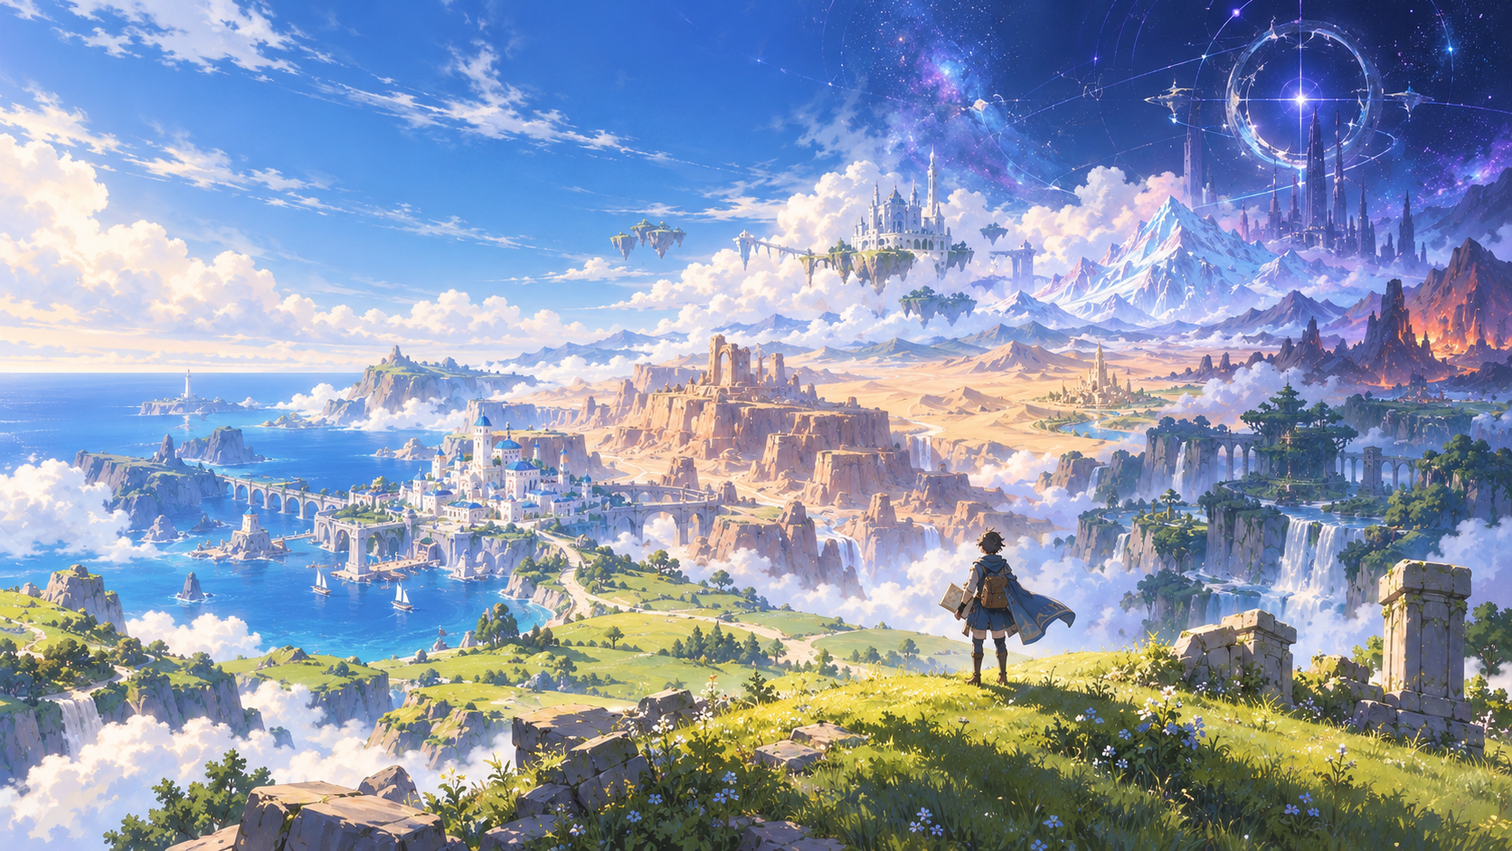
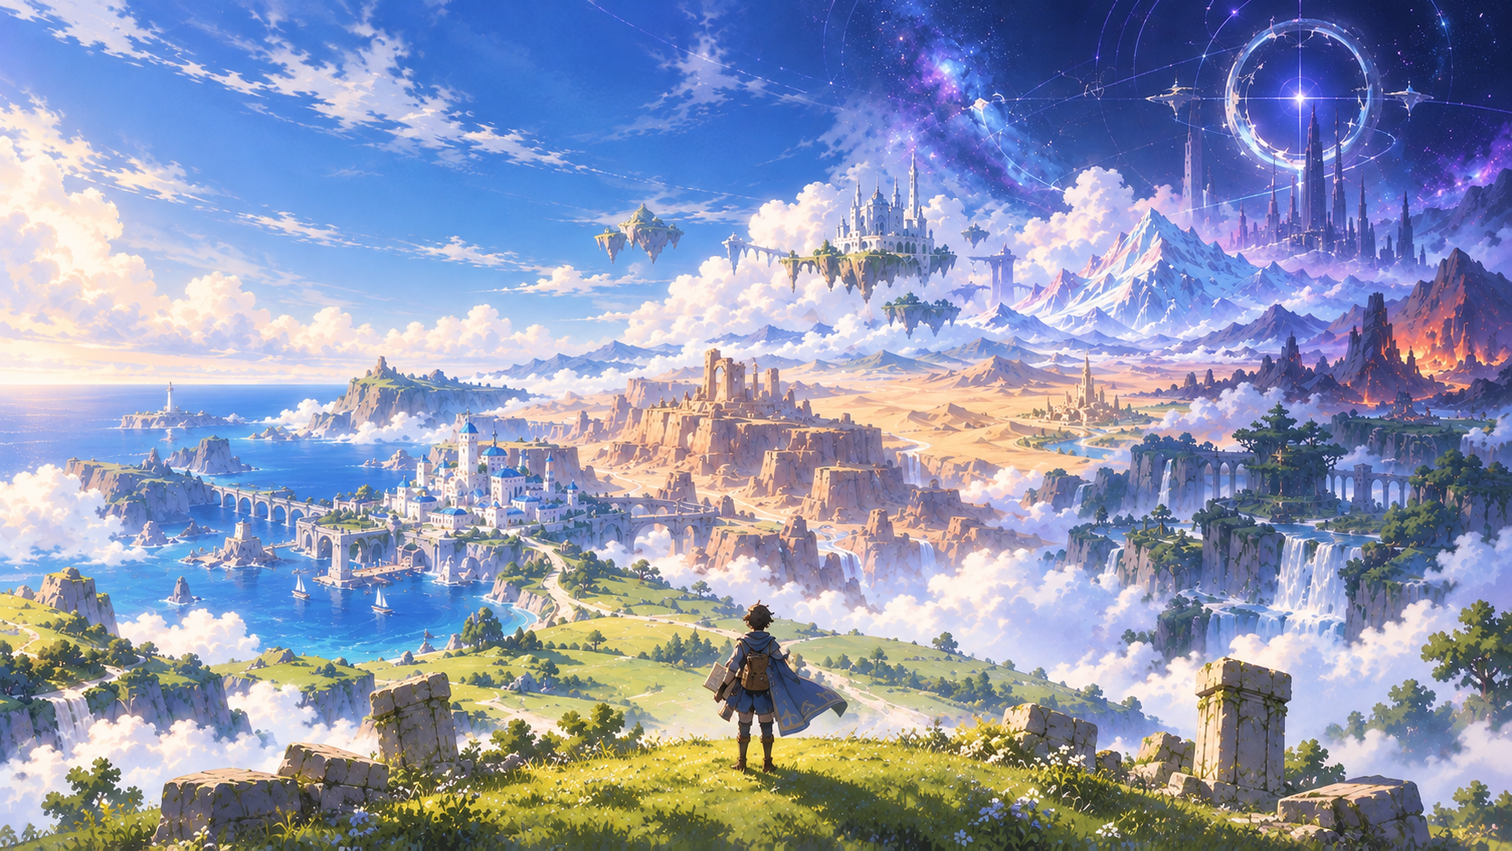
fix: polish lobby and stabilize battle score presentation

diff --git a/src/ui/combat.js b/src/ui/combat.js
@@ -44,7 +44,7 @@ export function renderCombat(root,state,{command,openOverlay,selected=new Set(),
       (guide.detail||guide.boss)&&button('설명',()=>modal(guide.title,[...(guide.detail??'').split('\n'),...(guide.boss??[])].filter(Boolean).map(text=>el('p',{text}))),'quiet learning-detail'),
       el('small',{class:'learning-bonus',text:guide.bonus})),
     el('p',{text:guide.description}));
-  const scoreWrap=el('div',{class:'score-stage'},score,el('div',{class:'score-copy'},issue,learningGuide,el('div',{class:'score-log',dataset:{presentation:'log'}})));
+  const scoreWrap=el('div',{class:'score-stage'},score,el('div',{class:'score-copy'},issue,learningGuide));
   const sentence=el('div',{class:'sentence-cards combat-sentence',dataset:{cardZone:'sentence',presentation:'sentence'}});
   const hand=el('div',{class:'hand-cards',dataset:{cardZone:'hand'}});
   function doCommand(cmd){if(!locked)return command(tutorialCommand(state,cmd));}
@@ -64,7 +64,6 @@ export function renderCombat(root,state,{command,openOverlay,selected=new Set(),
   const runePanel=el('aside',{class:'rune-panel'},el('div',{class:'rune-title'},el('strong',{text:'장착 룬'}),el('span',{text:`${state.runes.orderedInstanceIds.length} / ${state.runes.slotLimit}`})),...state.runes.orderedInstanceIds.map((id,index)=>runeView(state.runes.instances[id],{index,total:state.runes.orderedInstanceIds.length,readonly:locked||guided,run:state,version:state.version,entry:!combat.battleDirty,onOrder:(from,to)=>{const ids=[...state.runes.orderedInstanceIds];const [r]=ids.splice(from,1);ids.splice(to,0,r);doCommand({type:'REORDER_RUNES',instanceIds:ids});}})),...Array.from({length:state.runes.slotLimit-state.runes.orderedInstanceIds.length},()=>el('div',{class:'rune-slot empty',text:'◇  비어 있는 슬롯'})),el('p',{class:'rune-hint',text:'공격 룬은 위에서 아래로 발동합니다. ▲▼ 또는 손잡이로 순서를 바꾸세요.'}));
   const enemyArea=el('section',{class:'enemy-area'},el('div',{class:'enemy-avatar',dataset:{presentation:'enemy',defeated:String(enemy.hp===0)},style:enemy.hp===0?'opacity:0':null,text:enemy.emoji||'🌱'}),el('div',{class:'enemy-info'},el('div',{class:'enemy-label',text:finale?'FINAL TRILOGY':enemy.kind==='REGIONAL_BOSS'?'REGION BOSS':corridor?'STAR CORRIDOR':library?'DREAM LIBRARY':waterways?'ANCIENT WATERWAYS':ember?'EMBER CAVE':snow?'MIRROR SNOWFIELD':desert?'WISH DESERT':sky?'SKY ISLANDS':canyon?'TIME CANYON':harbor?'HARBOR ENCOUNTER':'GRASSLAND ENCOUNTER'}),el('h2',{text:enemyDisplayName(enemy)}),el('div',{class:'hp-track'},el('div',{class:'hp-fill',dataset:{presentation:'hp-fill'},style:`width:${enemy.hp/enemy.maxHp*100}%`})),el('div',{class:'enemy-hp',dataset:{presentation:'hp'},text:`${enemy.hp} / ${enemy.maxHp}`})),el('span',{class:'region-bonus',text:guide.bonus}),enemy.bossMechanic?.id==='SVOO_VEIL'&&el('span',{class:'boss-veil',dataset:{presentation:'boss-veil',active:String(enemy.bossMechanic.active)},text:enemy.bossMechanic.active?'보호 장막 · 피해 ×¼ · 4형식으로 해제':'보호 장막 해제'}));
   const cleanupMonster=attachMonster(enemyArea.querySelector('.enemy-avatar'),enemy,enemyDisplayName(enemy));
-  sceneBackdrop(enemyArea,state.progress.stageId,'combat');
   if(finale)enemyArea.querySelector('.enemy-info').append(el('p',{class:'finale-status',dataset:{presentation:'finale-status'},role:'status','aria-live':'polite',text:finaleStatusText(enemy.bossMechanic,state)}));
   const resistance=normalResistanceRatio(state.version,state.progress.stageId,enemy.kind);
   if(resistance)enemyArea.querySelector('.enemy-info').append(el('span',{class:'normal-resistance',text:`일반전 저항 ${Math.round(100*(resistance.den-resistance.num)/resistance.den)}% · 지역 보너스 후 적용`}));
@@ -112,6 +111,7 @@ export function renderCombat(root,state,{command,openOverlay,selected=new Set(),
   displayedSealKeys.set(root,sealKey);
   const cleanupRunes=bindRuneDrag(runePanel,(from,to)=>{const ids=[...state.runes.orderedInstanceIds];ids.splice(to,0,...ids.splice(from,1));doCommand({type:'REORDER_RUNES',instanceIds:ids});},{enabled:()=>!locked&&!guided});
   shell.querySelector('.pile-button').append(el('span',{text:'DRAW'}),el('strong',{text:combat.drawIds.length}),el('span',{text:'드로우 더미'}));shell.querySelector('.pile-discard').append(el('span',{text:'DISCARD'}),el('strong',{text:combat.discardIds.length}),el('span',{text:'버린 카드'}));
+  sceneBackdrop(shell,state.progress.stageId,'combat')?.classList.add('combat-backdrop');
   root.replaceChildren(shell);
   const menu=button('메뉴',()=>modal('전투 메뉴',el('div',{class:'battle-menu'},...['dictionary','records','recent','deck','exhausted','saves','settings'].map((id,i)=>button(['사전','도감','공격 기록','내 덱','사용 완료','저장','설정'][i],()=>openOverlay(id),'secondary')))),'quiet compact-battle-menu',{disabled:locked});status.append(el('div',{class:'compact-battle-controls'},button('사전',()=>openOverlay('dictionary'),'quiet compact-dictionary',{disabled:locked}),button('도감',()=>openOverlay('records'),'quiet compact-records',{disabled:locked}),button('내 덱',()=>openOverlay('deck'),'quiet compact-deck',{disabled:locked}),button('저장',()=>openOverlay('saves'),'quiet compact-saves',{disabled:locked}),menu));
   handPager=cardPager(hand,{label:'손패',pageSize:10,selected:()=>selected.size});

diff --git a/src/ui/responsive.css b/src/ui/responsive.css
@@ -170,8 +170,10 @@ body[data-stage-theme] .game-shell.responsive-battle{
 body[data-stage-theme] .responsive-battle .combat-middle{height:var(--middle-height)}
 body[data-stage-theme] .responsive-battle .sentence-area{display:grid;grid-template-rows:18px var(--score-height) var(--board-zone-height) var(--action-height);gap:4px;padding:6px;align-content:center;justify-items:center}
 .responsive-battle .board-heading{height:18px;min-height:18px;font-size:12px}
-body[data-stage-theme] .responsive-battle .sentence-area .score-stage,body[data-stage-theme] .responsive-battle .sentence-area .score-stage:has(.battle-learning-guide):has(.score-number[hidden]){height:var(--score-height);min-height:0;max-height:var(--score-height);overflow:auto}
-.responsive-battle .score-copy{max-height:100%;overflow:auto}
+body[data-stage-theme] .responsive-battle .sentence-area .score-stage,body[data-stage-theme] .responsive-battle .sentence-area .score-stage:has(.battle-learning-guide):has(.score-number[hidden]){height:var(--score-height);min-height:0;max-height:var(--score-height);overflow:visible}
+.responsive-battle .score-copy{height:100%;max-height:100%;overflow:visible;flex:0 1 660px;display:flex;align-items:center;justify-content:center}
+.responsive-battle .score-label{max-width:88%;font-size:clamp(14px,1.4vw,19px);line-height:1.2;text-wrap:balance}
+.responsive-battle .score-number{font-size:clamp(25px,3vw,calc(var(--score-height) / 1.12))}
 body[data-stage-theme] .responsive-battle .combat-sentence{height:var(--board-zone-height);margin:0}
 .responsive-battle .sentence-row{height:calc(var(--board-card-height) * var(--board-scale,1))}
 body[data-stage-theme] .responsive-battle .combat-sentence .word-card{--card-w:calc(var(--play-card-width) * var(--board-scale,1));width:var(--card-w);min-width:var(--card-w);max-width:var(--card-w);flex-basis:var(--card-w)}
@@ -180,7 +182,7 @@ body[data-stage-theme] .responsive-battle .combat-sentence .card-word{font-size:
 .responsive-battle .combat-sentence .form-button{height:calc(var(--form-height) * var(--board-scale,1));min-height:calc(var(--form-height) * var(--board-scale,1));font-size:calc(12px * var(--board-scale,1))}
 .responsive-battle .combat-sentence .card-topline{font-size:calc(9px * var(--board-scale,1))}
 body[data-stage-theme] .responsive-battle .status-panel,body[data-stage-theme] .responsive-battle .rune-panel{overflow:auto}
-body[data-stage-theme] .responsive-battle .hand-section{height:var(--hand-height);box-sizing:border-box;padding:38px 0 0;align-items:start}
+body[data-stage-theme] .responsive-battle .hand-section{height:var(--hand-height);box-sizing:border-box;padding:37px 0 0;align-items:start}
 .responsive-battle .hand-title{height:16px;line-height:16px;margin:0 0 2px}
 .responsive-battle .card-pager{height:15px;line-height:15px;margin-bottom:0}
 .responsive-battle .hand-page-row,body[data-stage-theme] .responsive-battle .hand-cards{height:var(--hand-card-height);min-height:var(--hand-card-height);align-items:center}
@@ -199,7 +201,17 @@ body:has(.guided-coach) .game-shell.responsive-battle{--hand-foot:44px}
 .scene-backdrop-full{position:fixed;border-radius:0}
 .scene-backdrop-full::after{content:"";position:absolute;inset:0;background:linear-gradient(90deg,#08121f8c,transparent 55%,#08121f55)}
 .enemy-area:has(.monster-slot){isolation:isolate;grid-template-rows:minmax(0,1fr)}
-.enemy-area:has(.scene-backdrop) .enemy-info{text-shadow:0 1px 3px #000,0 1px 8px #000;background:#101d2b88;border-radius:8px}
+.responsive-battle:has(.combat-backdrop){position:relative;isolation:isolate}
+.responsive-battle>.combat-backdrop{grid-column:1/-1;grid-row:1/3;top:calc(-1 * max(6px,env(safe-area-inset-top)));left:calc(-1 * max(12px,env(safe-area-inset-left)));right:calc(-1 * max(12px,env(safe-area-inset-right)));border-radius:0}
+.responsive-battle:has(.combat-backdrop) .game-header{background:linear-gradient(#081a32b3,#081a3255);border-bottom-color:#d6bf7955}
+body[data-stage-theme] .responsive-battle:has(.combat-backdrop) .enemy-area{column-gap:clamp(30px,4vw,76px)}
+.responsive-battle:has(.combat-backdrop) .enemy-info,.responsive-battle:has(.combat-backdrop) .enemy-tactics{padding:14px 20px;border:1px solid #a4b5b74d;border-radius:8px;background:#0c2134b3;text-shadow:0 1px 3px #000}
+.responsive-battle:has(.combat-backdrop) .enemy-info .hp-track{width:100%}
+@media(max-width:1399px){.responsive-battle:has(.combat-backdrop) .enemy-info,.responsive-battle:has(.combat-backdrop) .enemy-tactics{padding:10px 16px}}
+@media(max-height:720px){.responsive-battle>.combat-backdrop{top:-5px}.responsive-battle:has(.combat-backdrop) .enemy-info,.responsive-battle:has(.combat-backdrop) .enemy-tactics{padding:6px 12px}}
+/* Keep the visible selection outline on the same bottom line as unselected cards. */
+.responsive-battle .hand-cards .word-card.selected{transform:translateY(-3px)}
+.responsive-battle .hand-cards .card-select:focus-visible{outline-offset:-3px}
 .monster-slot{grid-column:2;grid-row:1;position:relative;min-height:0;align-self:stretch;width:100%}
 .responsive-battle .monster-slot .enemy-avatar{position:absolute;inset:0;width:100%;height:100%;display:grid;place-items:center}
 .monster-art-motion{position:absolute;inset:0;transform:scale(var(--monster-scale,1));transform-origin:50% 100%;pointer-events:none}

diff --git a/src/engine/presentation.js b/src/engine/presentation.js
@@ -261,7 +261,6 @@ export function createDOMPresentation(root, { audio, hpMax } = {}) {
       current = resolution; settings = options;scoreEffects.begin(options);root.ownerDocument.addEventListener('atlas:viewport',resizeEffects);
       clearHighlights(); adapter.clearConnections(); visualSnapshot=snapshotCards(); showHp(resolution.enemyHpBefore);showBossState(resolution.bossStateBefore);
       text('score', '0'); text('label', '문장을 펼칩니다'); text('power', '');
-      const log = find(root, 'log'); if (log) log.replaceChildren();
       const enemy = find(root, 'enemy');monsterViewFor(enemy)?.begin(options); if (enemy) { enemy.style.opacity = '1'; enemy.dataset.defeated = 'false'; }
       root.style.setProperty('--attack-intensity', String(options.intensity));
     },
@@ -280,13 +279,11 @@ export function createDOMPresentation(root, { audio, hpMax } = {}) {
       }
       if(event.sourceId==='boss.skyShield.release')animate(find(root,'boss-veil'),[{filter:'brightness(2)',transform:'scale(1.08)'},{filter:'brightness(1)',transform:'scale(1)'}],500);
       const label=event.sourceId==='stage.01'?(event.labelKo??event.phase).replace('기본 문형','1·2·3형식'):(event.labelKo??event.phase);
-      text('label', label); text('score', event.after);
+      // Show only this committed effect; the full timeline remains in attack records.
+      const amount=event.operation==='MULTIPLY'?`×${event.operand.num/event.operand.den}`:event.operation==='ADD'?`${event.operand>=0?'+':''}${event.operand}`:'';
+      text('label', amount&&!label.includes(amount)?`${label} · ${amount}`:label); text('score', event.after);
       const score = find(root, 'score'); if (score) { score.title = `${event.before} → ${event.after}`; score.dataset.before = String(event.before); score.dataset.after = String(event.after); }
       scoreEffects.score(event,combo);
-      const log = find(root, 'log'); if (log) {
-        const line = root.ownerDocument.createElement('div'); line.textContent = `${label}  ${event.before} → ${event.after}`;
-        line.dataset.eventId = event.eventId ?? ''; log.append(line); while (log.children.length > 3) log.firstElementChild.remove();
-      }
       audio?.play?.(/CARD|BASE/.test(event.phase) ? 'card' : 'score', { step, intensity });
     },
     highlight(cardIds, roles = [], argumentsByNode=[]) {
@@ -340,7 +337,7 @@ export function createDOMPresentation(root, { audio, hpMax } = {}) {
       root.dataset.corePhase='LUNGE';
       text('label', '문장 공격!');
       mountAttack();const enemy=find(root,'enemy');
-      if(attackBody&&enemy&&visualSnapshot){const a=visualSnapshot.rect,b=enemy.getBoundingClientRect();
+      if(attackBody&&enemy&&visualSnapshot){const a=visualSnapshot.rect,b=(enemy.querySelector('.monster-art-motion')??enemy).getBoundingClientRect();
         const x=b.left+b.width/2-a.left-a.width/2,y=b.top+b.height/2-a.top-a.height/2;
         lungeAnimation=animateCore(attackBody,[{transform:'translate(0,0) scale(.96)',opacity:1},{transform:`translate(${x}px,${y}px) scale(.36)`,opacity:.5}],duration,'forwards');
       }

diff --git a/src/ui/lobby.css b/src/ui/lobby.css
@@ -1,0 +1,28 @@
+/* Lobby-only paint and typography; existing form, handlers and preview semantics stay intact. */
+.lobby-topbar{background:linear-gradient(#0c214899,#0c214844);border-color:#e0c88755;color:#f8f0df}
+.lobby-topbar .brand-small{color:#f6dfaa;letter-spacing:3px}
+.lobby-topbar .quiet,.lobby-topbar .version-badge{color:#f3eee0}
+.lobby{color:#f7f1e5;--muted:#c4d1d1}
+.lobby .setup-card{background:linear-gradient(180deg,rgba(17,35,59,.82),rgba(16,45,48,.88));border:1px solid #dfc68b;border-radius:18px;box-shadow:inset 0 0 0 3px #f7de9c12,inset 0 1px 0 #fff3cf66,0 18px 48px #06152177;backdrop-filter:blur(3px)}
+.lobby .setup-heading h2{color:#fff6e5;text-shadow:0 2px 5px #061324}
+.lobby .eyebrow{color:#f0d69c}
+.lobby .traveler-choice{background:linear-gradient(135deg,#54788255,#183b4c55);border-color:#bfc7b580;box-shadow:inset 0 1px 0 #fff2c822}
+.lobby .traveler-choice p,.lobby .field>span,.lobby .field small,.lobby .local-note,.lobby .seed-details summary{color:#d0dbd8}
+.lobby .pill{background:#081d2bba;border-color:#a8b7aa66;color:#f4edda}
+.lobby input,.lobby select{background:rgba(7,20,30,.78);border-color:#a5b9b680;color:#fff8e9;box-shadow:inset 0 1px 4px #0003}
+.lobby select option{background:#102a3a;color:#fff8e9}
+.lobby input::placeholder{color:#a4b9bc}
+.lobby .secondary,.lobby .profile-row .quiet{background:linear-gradient(#254e5799,#16343ccc);border:1px solid #b4c4bc66;color:#f4f0df;box-shadow:inset 0 1px 0 #fff2}
+.lobby .secondary:hover,.lobby .profile-row .quiet:hover{background:#315563}
+.lobby .start-button{color:#1d2930;background:linear-gradient(135deg,#ffe8a6,#d9b667);border-color:#f7dda0;box-shadow:inset 0 1px 0 #fff4d6,0 3px 0 #8d7344,0 6px 14px #08162455}
+.lobby .start-button:hover{background:linear-gradient(135deg,#fff0b8,#e5c37b)}
+.lobby .start-button:active{box-shadow:inset 0 1px 4px #92734266,0 1px 0 #8d7344}
+.lobby .hero h1{font-family:Georgia,'Times New Roman',serif;letter-spacing:-.045em;color:#fff7e8;text-shadow:0 3px 16px #09214488}
+.lobby .hero h1 span{color:#f2d38c}
+.lobby .hero-description{color:#f8f5e9;text-shadow:0 1px 3px #061933,0 2px 12px #061933}
+.lobby .hero-word-card{box-shadow:0 12px 24px #07193088,inset 0 0 0 3px #d6ba7722}
+.lobby .chapter-preview{background:linear-gradient(90deg,#0b2647c7,#12384580,transparent);border-top-color:#efd29377;border-radius:6px;padding:16px 12px;text-shadow:0 2px 5px #06162a}
+.lobby .chapter-number{color:#f5d58e;opacity:1}
+.lobby .chapter-preview p,.lobby .hero-features{color:#e4eee5;text-shadow:0 1px 4px #06182c}
+.lobby-footer{color:#e0e9df;background:linear-gradient(90deg,#0c263499,#0c263466);border-top-color:#d8c48b44;padding-inline:12px}
+#app:has(>.lobby)>.scene-backdrop-full::after{background:linear-gradient(90deg,#081b3b38,transparent 55%,#081b3b20)}

diff --git a/src/ui/lobby.js b/src/ui/lobby.js
@@ -1,3 +1,4 @@
+import './lobby.css';
 import {sceneBackdrop} from '../services/sceneAssets.js';
 import {fullscreenButton} from './viewport.js';
 import {applyStageTheme} from './theme.js';
@@ -12,7 +13,7 @@ export function renderLobby(root,{profiles=[],activeProfile,onStart,onLoad,onPro
     el('div',{class:'setup-heading'},el('span',{class:'eyebrow',text:'YOUR EXPEDITION'}),el('h2',{text:'새로운 원정'})),
     el('div',{class:'traveler-choice'},el('span',{class:'traveler-icon',text:'🧭'}),el('div',{},el('strong',{text:'여행자'}),el('p',{text:'28장의 단어로 시작하는 나만의 문장.'})),el('span',{class:'pill',text:'난이도 1'})),
     el('label',{class:'field'},el('span',{text:'여행자 이름'}),nameInput),
-    profiles.length?el('div',{class:'profile-row'},profileSelect,button('새 프로필',()=>{nameInput.value='';profileSelect.value='';onCreateProfile?.();nameInput.focus();},'quiet')):null,
+    profiles.length?el('div',{class:'profile-row'},profileSelect,button('새 프로필',()=>{nameInput.value='';profileSelect.value='';onCreateProfile?.();root.querySelector('#player-name')?.focus();},'quiet')):null,
     el('label',{class:'field'},el('span',{text:'어휘 수준'}),modeSelect,el('small',{text:'어휘만 달라집니다. 점수와 전투 규칙은 같습니다.'})),
     el('details',{class:'seed-details'},el('summary',{text:'원정 시드 직접 입력'}),seedInput),
     el('button',{type:'submit',class:'primary start-button',id:'start-run',text:'원정 시작하기  →'}),

diff --git a/src/services/sceneAssets.js b/src/services/sceneAssets.js
@@ -6,7 +6,7 @@ export const SCENE_ASSETS = Object.freeze({
   'stage.01':{entry:'assets/stages/stage-01/entry.png',combat:'assets/stages/stage-01/combat.png',bgm:'assets/stages/stage-01/bgm.mp3',position:'50% 60%'},
   'stage.02':{entry:'assets/stages/stage-02/entry.png',combat:'assets/stages/stage-02/combat.png',bgm:'assets/stages/stage-02/bgm.mp3',position:'50% 60%'},
 });
-const pair=(stage,number,motion='float')=>({idle:`assets/stages/${stage}/monsters/${number}_idle.png`,hit:`assets/stages/${stage}/monsters/${number}_hit.png`,scale:1,anchor:'50% 100%',motion});
+const pair=(stage,number,motion='float')=>({idle:`assets/stages/${stage}/monsters/${number}_idle.png`,hit:`assets/stages/${stage}/monsters/${number}_hit.png`,scale:1.12,anchor:'50% 100%',motion});
 export const MONSTER_ASSETS=Object.freeze({
   'enemy.stage1.01':pair('stage-01','01'),
   'enemy.stage1.02':pair('stage-01','02','breathe'),

diff --git a/docs/LOBBY_BATTLE_POLISH_REPORT.md b/docs/LOBBY_BATTLE_POLISH_REPORT.md
@@ -1,0 +1,54 @@
+# 로비·전투 후속 폴리싱 — 실제 결과
+
+2026-10-29. 기준 `7964bf001506138de7d24afe3f7cbd7050ab66b9` (PR #24 병합), 시작 작업 트리 clean. 브랜치 `codex/lobby-battle-polish`.
+
+## 변경
+
+- 로비 전용 `lobby.css`: 청남색/청록 반투명 패널, 얇은 금색 경계, 금색 시작 버튼, 제목과 부분 음영. 좌측 소개/우측 설정과 모든 기존 입력·모달 유지. 새 프로필 클릭 후 재렌더된 이름 입력창에 포커스를 주도록 기존 끊어진 참조도 수정했다.
+- 배경 하나를 기존 헤더+무대 두 grid 행 뒤에 배치했다. 상단 합계 높이와 중앙/손패 외곽 예산은 유지했다. 좌우 패널을 바깥으로 이동하고 HP 안쪽 여백은 PC 20×14px, 작은 창 16×10px로 조정했다.
+- 몬스터 공통 배율 1→1.12, 발/중심 앵커와 idle/hit 공통 크기 유지. 돌진 FX 표적도 확대된 표시 영역을 읽는다.
+- 라이브 계산 로그 DOM을 없애고 큰 누적 점수와 현재 효과/연산만 갱신한다. 확대 이펙트의 공간을 확보하고 overflow는 visible로 유지했다. 기존 전체 scoreTimeline과 공격 기록 표, 근거 카드/룬/입자는 그대로다.
+- 손패 상단 padding 38→37px. 기존 하단 10px/버리기 4px는 재가산하지 않았다. 선택 카드는 3px 올려 3px 외곽 선택선을 포함한 하단을 일반 카드와 맞추며, 체크 버튼 키보드 포커스선은 내부에 표시한다. 카드 크기·폰트·dock 높이는 유지했다.
+- 게임 데이터/문법/HP/룬/골드/저장/50전투, 상점 흐름, BGM 코드, package/lock/workflow 변경 없음.
+
+## 실제 배경 교체
+
+사용자 최신 `SyntaxAtlas_Assets/lobby/background.png` → `public/assets/lobby/background.png` 한 파일만 원본 바이트로 교체했다. PNG RGB 1672×941, 2,747,913 bytes.
+
[2 lines of base64/hex data omitted]
+
+제공 폴더의 Stage 1/2 entry.png·combat.png 네 파일은 저장소와 해시가 같아 유지했다. 별도의 변경된 지역 원본은 없었다. BGM·몬스터·입력에 없는 파일·references 이미지는 복사/변경하지 않았다.
+
+## 여섯 묶음 실제 확인
+
+| 묶음 | 결과 및 범위 |
+| --- | --- |
+| 로비 | PASS — 이름/어휘/시드, 설정/기록/불러오기 접근, 실제 시작→입장→첫 전투. production의 기존 프로필 선택과 새 프로필 입력 포커스 확인 |
+| 배경 | PASS — 한 장의 상단 레이어, 로딩 실패 시 외곽 유지. production `/grammardealer/`의 배경 5개 HTTP 200 및 원본 해시 일치 |
+| 적 정보 | PASS — 실제 두 보스 초기화 상태에서 패널 충돌 없음, idle/hit 같은 rect·anchor, 장막 해제 전후 외곽 동일 |
+| 점수 | PASS — 지정 카드의 실제 Controller 공격 `I run.` 위력/피해 130/130, `She will be giving me a kind book.` 647/132. 202/302개 표시 프레임에서 슬롯 넘침·라이브 로그 없음, 모든 이벤트 순서/중간값 및 공격 기록 전체 행 보존 |
+| 손패/안정성 | PASS — 아래 대표 3화면, 빈 손패·14장 페이지·13/24장 조합대·선택/공격 전후 외곽 유지. 실제 항구 손패도 10px |
+| 기본 회귀 | PASS — 단위 1,816개, 빌드, 직접 영향받는 기존 사막 점수 9개. 같은 지역 재렌더에서 BGM source startedAt 유지·소스 1개 |
+
+| viewport (CSS px) | 표시 상태 | 카드/선택 윤곽 또는 빈 손패 예약선 아래 여백 |
+| --- | --- | --- |
+| 1366×768 | PC 창 | 10px |
+| 1920×1080 | Chromium 실제 fullscreen API 활성 | 10px |
+| 1180×820 | 대표 태블릿 가로 viewport | 10px |
+
+가시 바닥은 visualViewport.offsetTop + height, 선택선은 outline-width + outline-offset를 포함했다. safe-area는 이 환경에서 0. 일반 PC 카드 87.484375×120px와 손패 dock 191px는 이전과 같다. 수정 전 일반 카드 여백 9px, 선택 카드 윤곽 여백 12px였다. 그림자 꼬리는 테두리 실측에서 제외한다.
+
+## 명령·증거와 수정 과정
+
+- `npm.cmd test`: exit 0, 1,816 PASS / 0 FAIL / 0 SKIP. `.local-validation/v0101/lobby-polish-final-unit/`. 고정 출력 timing/reward 원본은 실행 결과를 별도 보관한 뒤 복원했다.
+- `npm.cmd run build`: exit 0. 이후 이름 포커스 1줄 UI 수정은 production 집중 검사와 빌드만 다시 확인했다. 최종 빌드 `.local-validation/v0101/lobby-polish-focus-build/` exit 0. 동일 단위 검사를 이유 없이 반복하지 않았다.
+- `SB_POLISH_URL=http://127.0.0.1:5197/ node tests/lobby-polish-browser.mjs`: 최초 묶음 1/2/3/5 통과 후 점수 탄성 확대 2px 넘침 FAIL. 공간 수정 후 `SB_LOBBY_POLISH_FOCUS=score`로 묶음 4/6 PASS. 결과 각각 `.local-validation/lobby-polish/browser/`, `score-final/`에 보존. 실제 보스 초기화 추가 확인 `boss-check.json` PASS.
+- `SB_V05_DEV_URL=http://127.0.0.1:5197/ node tests/desert-score-browser.mjs`: 최종 9 PASS, exit 0 (`legacy-score-clock/`). 과거 라이브 로그 기대값을 **동일 이벤트의 저장된 전체 기록 + 라이브 로그 없음**으로 바꿨다. 기존 위력 393/220, 배수/내림/피해/멱등성 assertion은 유지했다. 캡처 중 다음 이벤트로 넘어간 두 실패도 보존했고, 원래 타임라인의 정확한 시점으로 Playwright 테스트 시계를 진행시켜 해결했다. 게임 타이밍은 변경하지 않았다.
+- production 검사: `.local-validation/lobby-polish/production.mjs`, exit 0. `production-final/result.json`. 첫 실행에서 발견한 새 프로필 포커스 실패는 수정 후 통과했다.
+
+대표 캡처는 로컬 `.local-validation/lobby-polish/production-final/lobby.png`, `score-final/battle.png`, `score-final/score.png`, `browser/tablet.png`. 원본 로그/추가 캡처는 로컬에 보존하며 배포 파일에 넣지 않았다.
+
+## 남은 범위
+
+최종 집중 검사 실패 없음. 500kB 초과 번들 경고는 기존대로 남아 있다. 실기기/비영(非零) safe-area, 실제 청취, 전 브라우저, 자연 50전투/대량 seed는 **NOT RUN**. 색조·그림자 등의 미세 폴리싱은 사용자 피드백으로 남긴다. 지정 카드 검사와 자연 원정 완주는 구분한다. main 병합·Pages 설정 변경·공개 배포는 수행하지 않는다.
